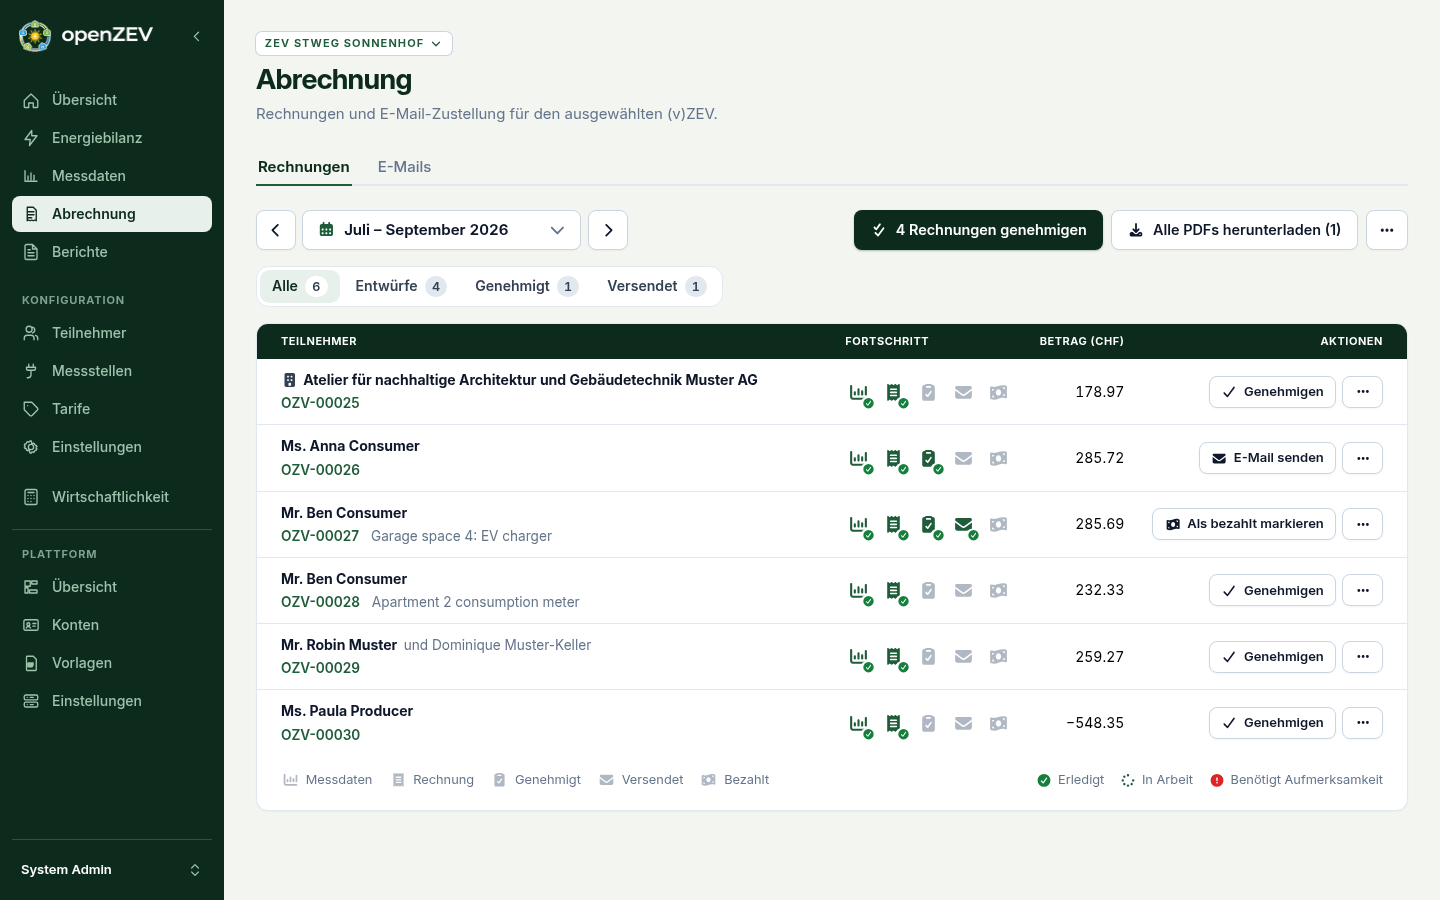
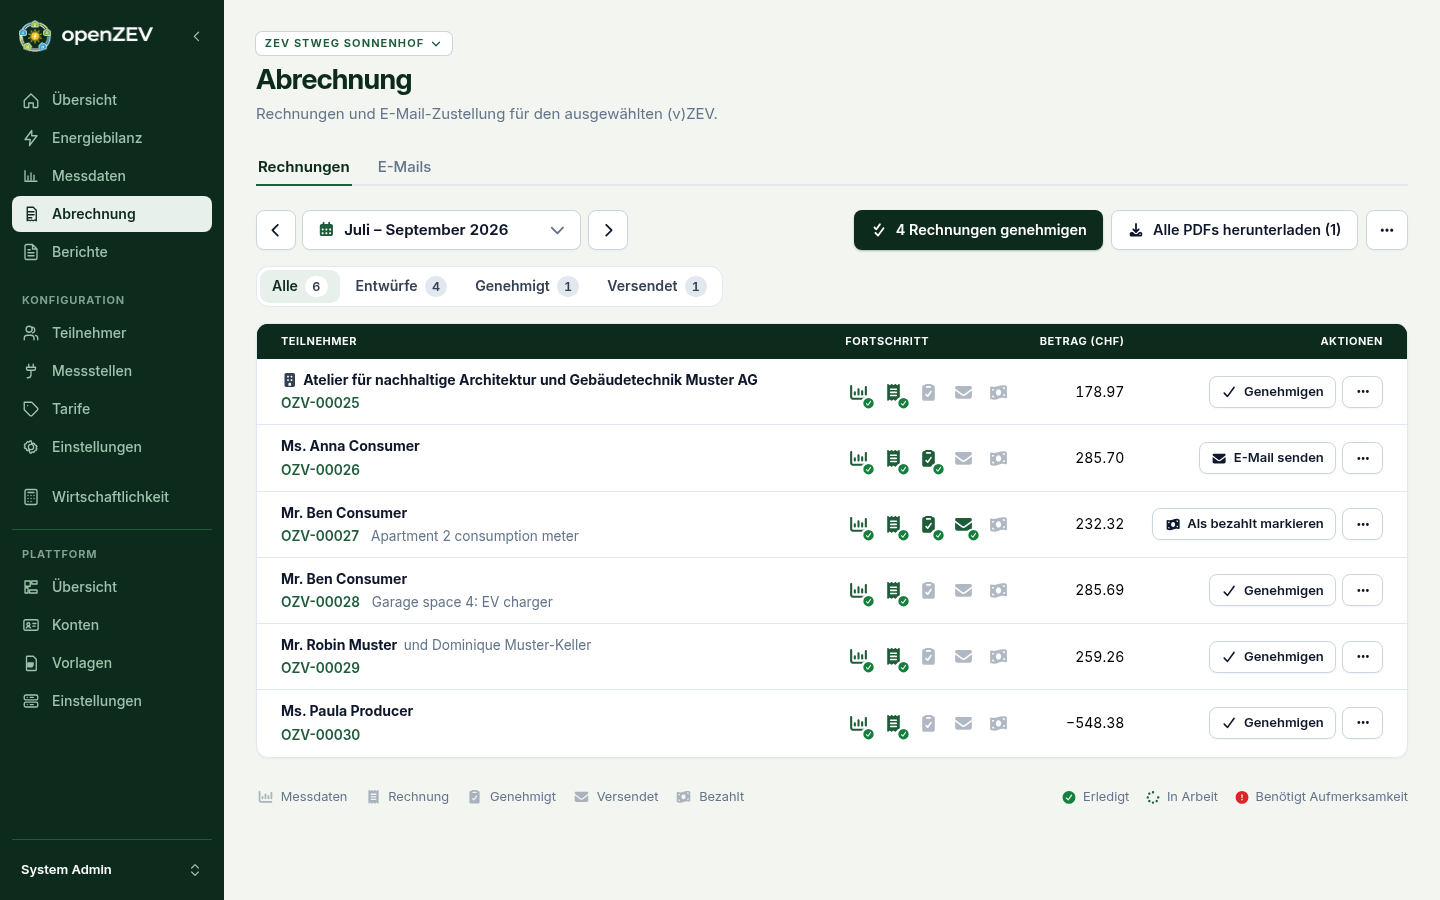
fix(invoices): move the progress legend below the table sheet (#980)
A table that closes a sheet now meets its bottom edge, so the invoice rows, admin accounts and the other table sheets no longer leave an empty band under the last row.

diff --git a/frontend/src/features/invoices/InvoicePeriodRowsTable.tsx b/frontend/src/features/invoices/InvoicePeriodRowsTable.tsx
@@ -33,105 +33,107 @@ export function InvoicePeriodRowsTable({
   const { settings } = useAppSettings()
 
   return (
-    <div className="table-card invoice-rows">
-      {/* Explicit roles keep table semantics when narrow containers turn
-          the table into cards with display: block. */}
-      <table role="table">
-        <thead role="rowgroup">
-          <tr role="row">
-            <th role="columnheader" scope="col">{t('pages.invoices.col.participant')}</th>
-            <th role="columnheader" scope="col">{t('pages.invoices.col.progress')}</th>
-            <th role="columnheader" scope="col" className="numeric">{t('pages.invoices.col.amount')}</th>
-            <th role="columnheader" scope="col" className="invoice-actions-cell">{t('pages.invoices.col.actions')}</th>
-          </tr>
-        </thead>
-        <tbody role="rowgroup">
-          {rows.map((row) => {
-            const invoice = row.invoice
-            const live = liveInvoice(row)
-            const work = getRowWork(row)
-            const issues = invoiceRowIssues(row, work)
-            const missingMeters = row.missing_meter_details?.length
-              ? row.missing_meter_details.map((item) => ({
-                  id: item.meter_id,
-                  text: `${item.meter_id} (${t('pages.invoices.metering.missingDays', { count: item.missing_days })})`,
-                }))
-              : row.missing_meter_ids.map((meterId) => ({ id: meterId, text: meterId }))
-            // A move in or out inside the period explains a short bill.
-            const joined = row.participant_valid_from && row.participant_valid_from > period.period_start
-              ? row.participant_valid_from : null
-            const left = row.participant_valid_to && row.participant_valid_to < period.period_end
-              ? row.participant_valid_to : null
+    <>
+      <div className="table-card invoice-rows">
+        {/* Explicit roles keep table semantics when narrow containers turn
+            the table into cards with display: block. */}
+        <table role="table">
+          <thead role="rowgroup">
+            <tr role="row">
+              <th role="columnheader" scope="col">{t('pages.invoices.col.participant')}</th>
+              <th role="columnheader" scope="col">{t('pages.invoices.col.progress')}</th>
+              <th role="columnheader" scope="col" className="numeric">{t('pages.invoices.col.amount')}</th>
+              <th role="columnheader" scope="col" className="invoice-actions-cell">{t('pages.invoices.col.actions')}</th>
+            </tr>
+          </thead>
+          <tbody role="rowgroup">
+            {rows.map((row) => {
+              const invoice = row.invoice
+              const live = liveInvoice(row)
+              const work = getRowWork(row)
+              const issues = invoiceRowIssues(row, work)
+              const missingMeters = row.missing_meter_details?.length
+                ? row.missing_meter_details.map((item) => ({
+                    id: item.meter_id,
+                    text: `${item.meter_id} (${t('pages.invoices.metering.missingDays', { count: item.missing_days })})`,
+                  }))
+                : row.missing_meter_ids.map((meterId) => ({ id: meterId, text: meterId }))
+              // A move in or out inside the period explains a short bill.
+              const joined = row.participant_valid_from && row.participant_valid_from > period.period_start
+                ? row.participant_valid_from : null
+              const left = row.participant_valid_to && row.participant_valid_to < period.period_end
+                ? row.participant_valid_to : null
 
-            const locations = repeatedPartyIds.has(row.party_id) ? row.metering_point_labels : []
+              const locations = repeatedPartyIds.has(row.party_id) ? row.metering_point_labels : []
 
-            return (
-              <tr key={row.participant_id} role="row">
-                <td role="cell" className="invoice-row-who">
-                  <span className="invoice-row-name">
-                    {row.participant_kind === 'organisation' && (
-                      <FontAwesomeIcon
-                        icon={faBuilding}
-                        fixedWidth
-                        title={t('pages.participants.kind.organisation')}
-                        className="invoice-row-kind"
-                      />
-                    )}
-                    <strong>{row.participant_name}</strong>
-                    {row.participant_name_addition && (
-                      <span className="muted">{row.participant_name_addition}</span>
-                    )}
-                  </span>
-                  <span className="invoice-row-meta">
-                    {invoice ? (
-                      <span>
-                        <InvoiceLink invoice={invoice} from="/billing/invoices" period={period} />
-                        {!live && ` (${t('invoice.status.cancelled')})`}
-                      </span>
-                    ) : null}
-                    {!live && work.generating ? (
-                      <span className="invoice-row-pending">
-                        <FontAwesomeIcon icon={faSpinner} spin fixedWidth aria-hidden="true" />
-                        {t('pages.invoices.progress.reasons.generating')}
-                      </span>
-                    ) : !invoice && row.generation_eligibility?.state !== 'covered' ? (
-                      <span>{t('pages.invoices.notCreated')}</span>
-                    ) : null}
-                    {locations.length > 0 && <span>{locations.join(', ')}</span>}
-                    {joined && <span>{t('pages.invoices.row.joined', { date: formatShortDate(joined, settings) })}</span>}
-                    {left && <span>{t('pages.invoices.row.left', { date: formatShortDate(left, settings) })}</span>}
-                  </span>
-                  {issues.length > 0 && (
-                    <span className="invoice-row-issues">
-                      {issues.map((issue) => (
-                        <span key={issue} title={issue === 'pdf' ? t('pages.invoices.pdfFailedHint') : undefined}>
-                          {invoiceStepReasonText(t, issue, row)}
-                        </span>
-                      ))}
+              return (
+                <tr key={row.participant_id} role="row">
+                  <td role="cell" className="invoice-row-who">
+                    <span className="invoice-row-name">
+                      {row.participant_kind === 'organisation' && (
+                        <FontAwesomeIcon
+                          icon={faBuilding}
+                          fixedWidth
+                          title={t('pages.participants.kind.organisation')}
+                          className="invoice-row-kind"
+                        />
+                      )}
+                      <strong>{row.participant_name}</strong>
+                      {row.participant_name_addition && (
+                        <span className="muted">{row.participant_name_addition}</span>
+                      )}
                     </span>
-                  )}
-                  {missingMeters.length > 0 && (
-                    <ul className="metering-missing-list muted">
-                      {missingMeters.map((meter) => <li key={meter.id}>{meter.text}</li>)}
-                    </ul>
-                  )}
-                </td>
-                <td role="cell" className="invoice-row-progress">
-                  <InvoiceRowProgress row={row} period={period} work={work} />
-                </td>
-                <td role="cell" className="numeric invoice-row-total">
-                  {live && <span className="invoice-row-currency">CHF </span>}
-                  <InvoiceAmount value={live?.total_chf ?? null} currency={false} />
-                </td>
-                <td role="cell" className="invoice-actions-cell">
-                  <InvoiceRowActions primary={getPrimaryRowAction(row)} menuItems={getRowMenuItems(row)} variant="secondary" iconOnlyMenu />
-                </td>
-              </tr>
-            )
-          })}
-        </tbody>
-      </table>
+                    <span className="invoice-row-meta">
+                      {invoice ? (
+                        <span>
+                          <InvoiceLink invoice={invoice} from="/billing/invoices" period={period} />
+                          {!live && ` (${t('invoice.status.cancelled')})`}
+                        </span>
+                      ) : null}
+                      {!live && work.generating ? (
+                        <span className="invoice-row-pending">
+                          <FontAwesomeIcon icon={faSpinner} spin fixedWidth aria-hidden="true" />
+                          {t('pages.invoices.progress.reasons.generating')}
+                        </span>
+                      ) : !invoice && row.generation_eligibility?.state !== 'covered' ? (
+                        <span>{t('pages.invoices.notCreated')}</span>
+                      ) : null}
+                      {locations.length > 0 && <span>{locations.join(', ')}</span>}
+                      {joined && <span>{t('pages.invoices.row.joined', { date: formatShortDate(joined, settings) })}</span>}
+                      {left && <span>{t('pages.invoices.row.left', { date: formatShortDate(left, settings) })}</span>}
+                    </span>
+                    {issues.length > 0 && (
+                      <span className="invoice-row-issues">
+                        {issues.map((issue) => (
+                          <span key={issue} title={issue === 'pdf' ? t('pages.invoices.pdfFailedHint') : undefined}>
+                            {invoiceStepReasonText(t, issue, row)}
+                          </span>
+                        ))}
+                      </span>
+                    )}
+                    {missingMeters.length > 0 && (
+                      <ul className="metering-missing-list muted">
+                        {missingMeters.map((meter) => <li key={meter.id}>{meter.text}</li>)}
+                      </ul>
+                    )}
+                  </td>
+                  <td role="cell" className="invoice-row-progress">
+                    <InvoiceRowProgress row={row} period={period} work={work} />
+                  </td>
+                  <td role="cell" className="numeric invoice-row-total">
+                    {live && <span className="invoice-row-currency">CHF </span>}
+                    <InvoiceAmount value={live?.total_chf ?? null} currency={false} />
+                  </td>
+                  <td role="cell" className="invoice-actions-cell">
+                    <InvoiceRowActions primary={getPrimaryRowAction(row)} menuItems={getRowMenuItems(row)} variant="secondary" iconOnlyMenu />
+                  </td>
+                </tr>
+              )
+            })}
+          </tbody>
+        </table>
+      </div>
       <InvoiceProgressLegend />
-    </div>
+    </>
   )
 }

diff --git a/frontend/src/index.css b/frontend/src/index.css
@@ -1697,6 +1697,18 @@ label > small.muted {
   border-top-right-radius: calc(var(--radius-lg) - 1px);
 }
 
+:is(.card, .table-card) > :where(table, .table-scroll, .data-table):last-child {
+  margin-bottom: calc(-1 * var(--sheet-pad-block));
+}
+
+:is(.card, .table-card) > :where(table, .table-scroll, .data-table):last-child tbody tr:last-child > td:first-child {
+  border-bottom-left-radius: calc(var(--radius-lg) - 1px);
+}
+
+:is(.card, .table-card) > :where(table, .table-scroll, .data-table):last-child tbody tr:last-child > td:last-child {
+  border-bottom-right-radius: calc(var(--radius-lg) - 1px);
+}
+
 /* A sheet's title: the documents' section heading (invoice page 3
    `.section-title`). Also when a toolbar or a card header carries the title
    beside the sheet's controls. */
@@ -3807,6 +3819,10 @@ input.recurrence-chip-input {
 
   .invoice-rows tbody tr:first-child {
     padding-top: 0.2rem;
+  }
+
+  .invoice-rows tbody tr:last-child {
+    border-bottom: 0;
   }
 
   /* No band to meet the sheet's top: the cards start at its inset, their

diff --git a/frontend/tests/invoice-row-layout.test.ts b/frontend/tests/invoice-row-layout.test.ts
@@ -75,6 +75,7 @@ describe('invoice period row layout', () => {
         expect(rowsOf(container)[0].children[2].textContent).toBe('CHF 12.30')
         // The legend explains the step icons once, below the rows.
         expect(container.querySelector('.invoice-progress-legend')?.textContent).toContain('pages.invoices.progress.steps.metering')
+        expect(container.querySelector('.invoice-rows .invoice-progress-legend')).toBeNull()
     })
 
     it('puts the invoice number in the identity cell as the row\'s only detail link', async () => {

diff --git a/docs/specs/2026-08-ui-redesign-pdf-style.md b/docs/specs/2026-08-ui-redesign-pdf-style.md
@@ -357,7 +357,7 @@ A `rg --pcre2 '#[0-9a-fA-F]{3,8}\b' frontend/src` inventory is committed as a Ph
 ### 7.4 Tables
 
 - Plain tables (`.page-stack table`) + the shared `frontend/src/components/DataTable.tsx` (TanStack) styled by the `.data-table` CSS contract (sticky header, `td.numeric`, hover). The planned bridging module `frontend/src/lib/dataGridTheme.ts` was never needed — MUI was retired in one sweep rather than re-themed first.
-- Sticky `thead` on the documents' dark header band (`--brand-deep`, same-colour bottom border; outer corners `--radius-sm` for a table outside a sheet) with white uppercase kicker labels (`0.6875rem / 650 / 0.05em`; sort buttons inherit the colour); `44px` rows (`height: 2.75rem`) at `0.875rem`, `1px solid var(--border-default)` separators (none under the last row), `hover: var(--surface)`, `selected: var(--brand-pale)`; quantities/money `text-align:right` + `tabular-nums`; DataTable cells `0.75rem` horizontal padding; `td code` identifiers never wrap. The documents' `.line-items` and `.doc-table` use the same `--brand-deep` header. `.participant-table` uses the same band. Every band cell repaints the band behind its content with a pseudo-element reaching 1px past its bottom and, after the first cell, past its left edge (`:where(.page-stack, .data-table) thead th::before`, `z-index: -1`, positioned by the sticky cell; cells ignore `box-shadow` under collapsed borders): at a fractional position or zoom, neighbouring cells otherwise leave a light seam on their shared edge, and the background and bottom border snap a light row apart. The raw metering grid's light header opts out (`content: none`). Inside a sheet (`.card`, `.table-card`) a table fills it edge to edge: a table, `.table-scroll` or `.data-table` that is a direct child of the sheet, or of a classless `div` or `.page-stack` directly inside it, takes `margin-inline: calc(-1 * var(--sheet-pad-inline))` (a bare `table` also `width: calc(100% + 2 * var(--sheet-pad-inline))`), and its outer cells pad by `--sheet-pad-inline` so their text lines up with the sheet's title; the band's corners are square. When that table is the sheet's first child it also takes `margin-top: calc(-1 * var(--sheet-pad-block))` and the sheet's inner top corners (`calc(var(--radius-lg) - 1px)`). The rules sit behind `:where()` so a component layout can override them: the stacked invoice rows (`@container (max-width: 46rem)`, no visible band) keep the sheet's top inset and pad each row card by `--sheet-pad-inline`, with dividers still running edge to edge. Zebra `var(--zebra)` optional (documents keep it; UI uses it only where scans benefit).
+- Sticky `thead` on the documents' dark header band (`--brand-deep`, same-colour bottom border; outer corners `--radius-sm` for a table outside a sheet) with white uppercase kicker labels (`0.6875rem / 650 / 0.05em`; sort buttons inherit the colour); `44px` rows (`height: 2.75rem`) at `0.875rem`, `1px solid var(--border-default)` separators (none under the last row), `hover: var(--surface)`, `selected: var(--brand-pale)`; quantities/money `text-align:right` + `tabular-nums`; DataTable cells `0.75rem` horizontal padding; `td code` identifiers never wrap. The documents' `.line-items` and `.doc-table` use the same `--brand-deep` header. `.participant-table` uses the same band. Every band cell repaints the band behind its content with a pseudo-element reaching 1px past its bottom and, after the first cell, past its left edge (`:where(.page-stack, .data-table) thead th::before`, `z-index: -1`, positioned by the sticky cell; cells ignore `box-shadow` under collapsed borders): at a fractional position or zoom, neighbouring cells otherwise leave a light seam on their shared edge, and the background and bottom border snap a light row apart. The raw metering grid's light header opts out (`content: none`). Inside a sheet (`.card`, `.table-card`) a table fills it edge to edge: a table, `.table-scroll` or `.data-table` that is a direct child of the sheet, or of a classless `div` or `.page-stack` directly inside it, takes `margin-inline: calc(-1 * var(--sheet-pad-inline))` (a bare `table` also `width: calc(100% + 2 * var(--sheet-pad-inline))`), and its outer cells pad by `--sheet-pad-inline` so their text lines up with the sheet's title; the band's corners are square. When that table is the sheet's first child it also takes `margin-top: calc(-1 * var(--sheet-pad-block))` and the sheet's inner top corners (`calc(var(--radius-lg) - 1px)`). When it is the sheet's last child it takes `margin-bottom: calc(-1 * var(--sheet-pad-block))` and its last row's outer cells the sheet's inner bottom corners, so the last row meets the sheet's bottom. The rules sit behind `:where()` so a component layout can override them: the stacked invoice rows (`@container (max-width: 46rem)`, no visible band) keep the sheet's top inset and pad each row card by `--sheet-pad-inline`, with dividers still running edge to edge. Zebra `var(--zebra)` optional (documents keep it; UI uses it only where scans benefit).
 - Row actions (`td > .button`, `.actions-cell-content > .button`): a primary action renders as a forest outline, a destructive one quiet (paper, `--danger-700` text, red tint on hover); only the page's own primary action is solid (§15).
 
 ### 7.5 Cards and chrome

diff --git a/docs/user-guide/09-invoice-management.md b/docs/user-guide/09-invoice-management.md
@@ -200,7 +200,7 @@ Each row in the table represents one **participant** who had active metering-poi
 | Column | Description |
 |---|---|
 | **Participant** | Current participant name, invoice link and relevant participation dates. Meter locations distinguish several participations held by the same party. Problems appear below the name. |
-| **Progress** | Metering data → Invoice → Approved → Sent → Paid. Checks show completed steps, spinners show pending work, and warning marks show problems. The legend explains the icons. |
+| **Progress** | Metering data → Invoice → Approved → Sent → Paid. Checks show completed steps, spinners show pending work, and warning marks show problems. The legend below the table sheet explains the icons. |
 | **Amount (CHF)** | The invoice amount; *-* without a live invoice. |
 | **Actions** | The next step and **More**. Viewers and managers of disabled communities retain **Review conflict** and **Open PDF**. |
 

diff --git a/docs/specs/2026-03-invoice-lifecycle-and-communication.md b/docs/specs/2026-03-invoice-lifecycle-and-communication.md
@@ -1230,7 +1230,7 @@ the cockpit readiness and attention caches.
 - Full coverage can come from one or more sent/paid invoices in other periods.
   Such a row shows **Already billed** and a representative invoice link in
   Progress, retaining the viewed period for return navigation.
-- The progress legend explains the icons and completion marks. Steps have
+- The progress legend sits outside the table sheet, below the rows, and explains the icons and completion marks. Steps have
   textual accessible labels and tooltips. Delivery shows the latest attempt
   only; Billing Emails owns attempt history and retries.
 - The compact period selector and batch actions share the command bar.
